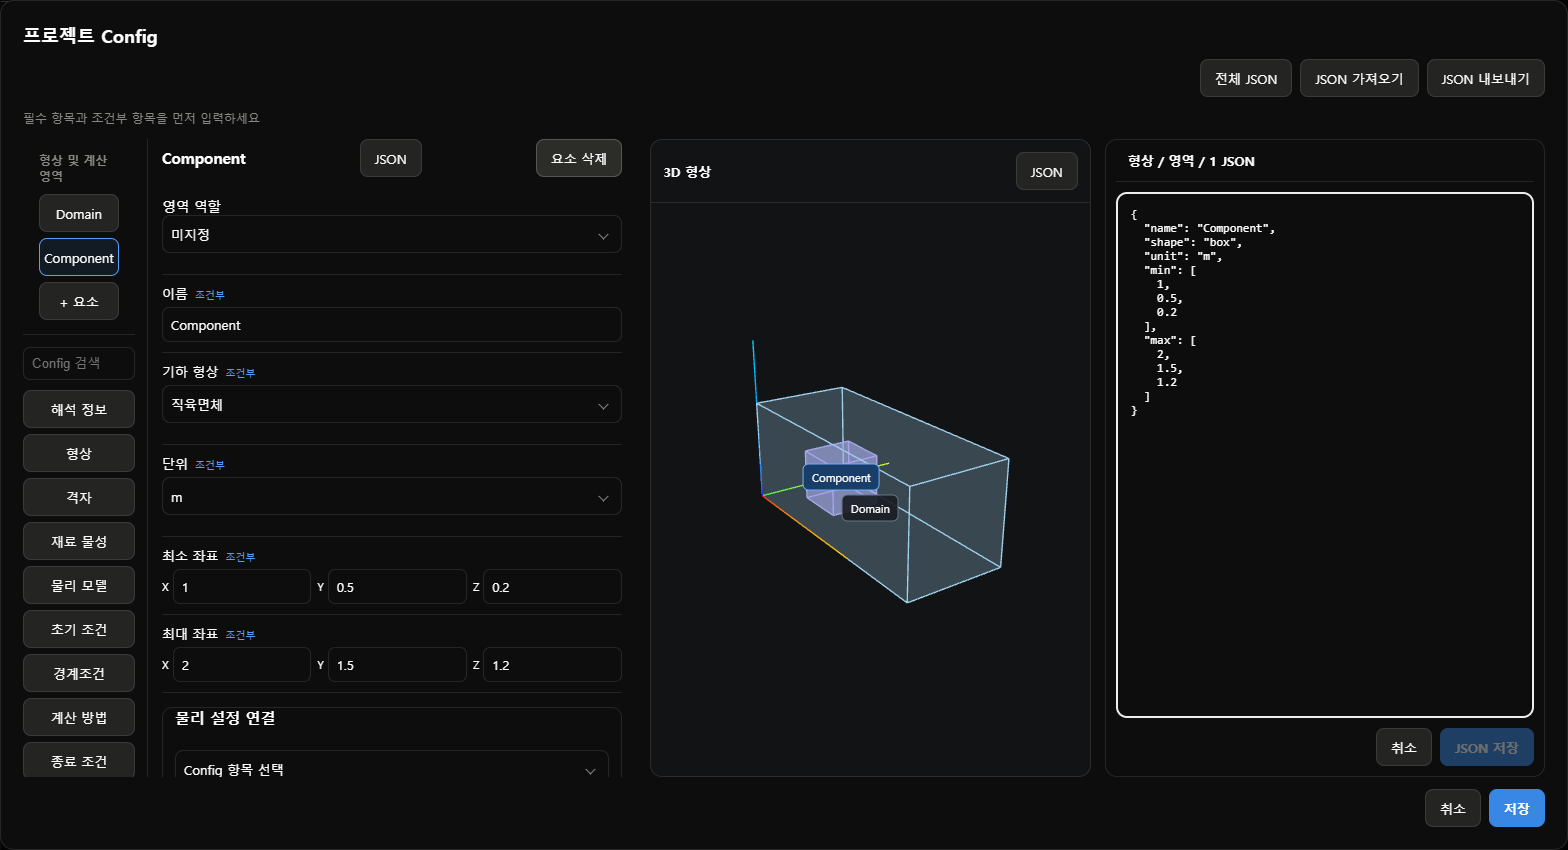
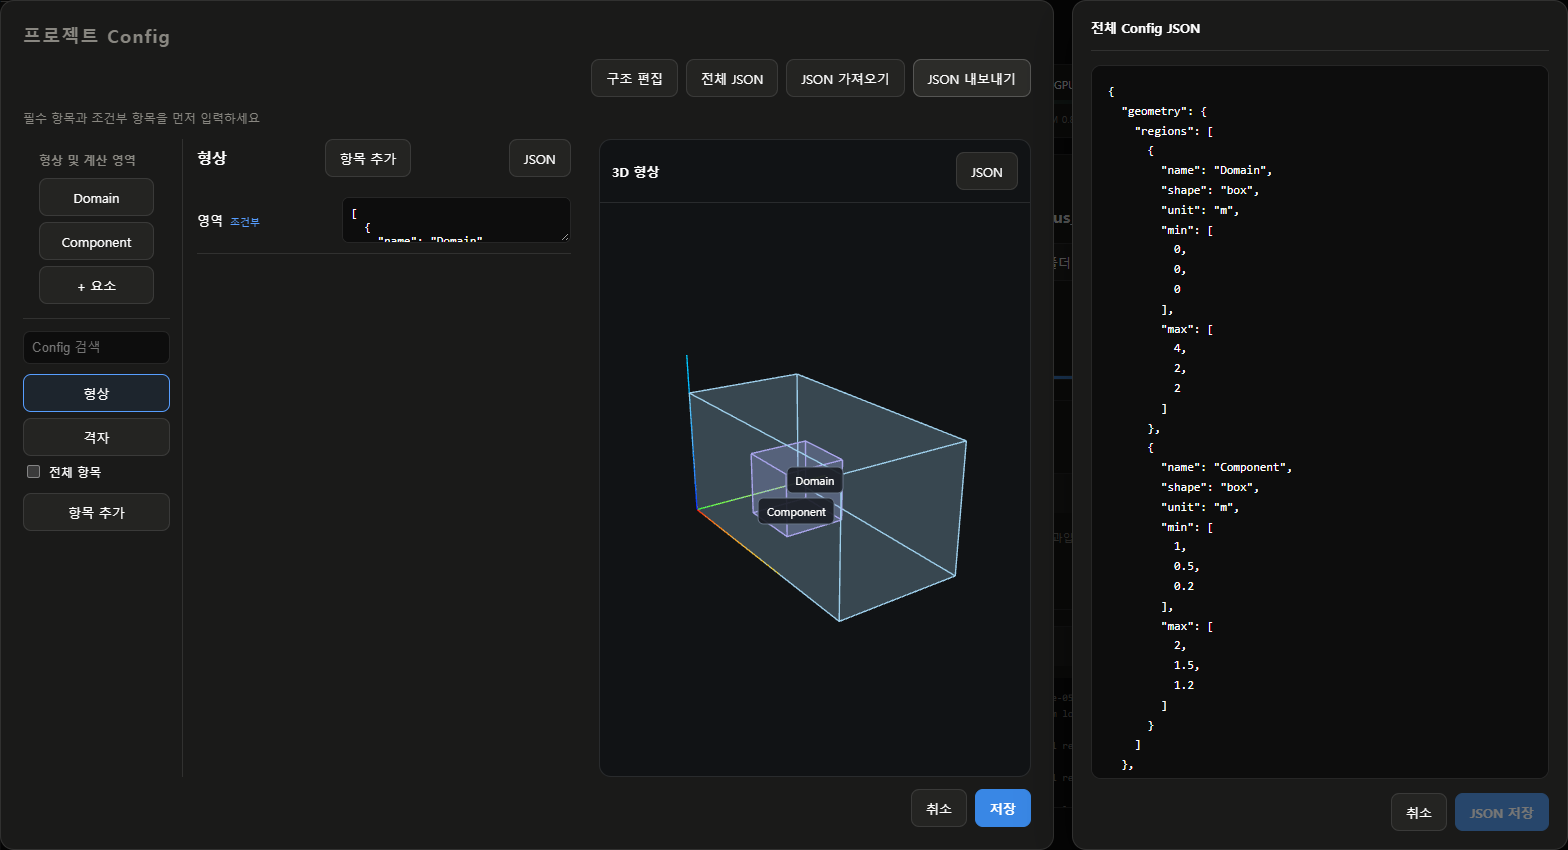
Show JSON in a separate panel with smooth editor translation

diff --git a/cfd_studio/internal/form_config_editor.js b/cfd_studio/internal/form_config_editor.js
@@ -83,8 +83,19 @@
 
 .fc-dialog{width:min(1640px,97vw);max-width:1640px}.fc-workspace{display:grid;grid-template-columns:minmax(570px,1.35fr) minmax(310px,1fr);gap:16px;flex:1;min-height:0}.fc-layout{grid-template-columns:160px minmax(0,1fr)}.fc-row{grid-template-columns:minmax(100px,135px) minmax(100px,1fr);gap:10px}.fc-body{height:100%}.fc-preview{min-height:0;min-width:0;border:1px solid var(--line);border-radius:12px;overflow:hidden;display:flex;flex-direction:column;background:#111315}.fc-preview-header{display:flex;align-items:center;justify-content:space-between;gap:8px;padding:12px;border-bottom:1px solid var(--line);font-size:13px}.fc-preview-host{position:relative;flex:1;min-height:180px;overflow:hidden}.fc-preview-host canvas{display:block;width:100%;height:100%}.fc-preview-note{margin:0;padding:10px;font-size:11px;color:var(--muted);max-height:68px;overflow:auto}.fc-element-list{border-bottom:1px solid var(--line);margin-bottom:12px;padding-bottom:8px}.fc-element-list h4{font-size:12px;margin:0 0 10px;color:var(--muted)}.fc-section>select{width:100%;padding:8px;background:var(--page);color:var(--ink);border:1px solid var(--line);border-radius:7px;margin:10px 0}.sp-tags{position:absolute;inset:0;pointer-events:none;overflow:hidden}.sp-tag{position:absolute;transform:translate(-50%,-50%);pointer-events:auto;max-width:180px;overflow:hidden;text-overflow:ellipsis;white-space:nowrap;background:#191d23e8;color:#fff;border:1px solid #677487;border-radius:6px;padding:5px 8px;font-family:inherit;font-size:11px;cursor:pointer}.sp-tag[aria-pressed=true]{border-color:#73adff;background:#193e69;z-index:2}@media(max-width:980px){.fc-workspace{grid-template-columns:minmax(430px,1fr) minmax(240px,.75fr)}.fc-layout{grid-template-columns:130px minmax(0,1fr)}.fc-row{grid-template-columns:1fr}.fc-dialog{padding:14px}}@media(max-width:740px){.fc-workspace{grid-template-columns:1fr;grid-template-rows:minmax(220px,1fr) 240px;overflow:auto}.fc-main{padding-right:4px}}
 
-.fc-dialog{width:min(1240px,96vw);max-width:1800px;transition:width .28s ease,transform .28s ease}.fc-dialog.fc-json-open{width:min(1800px,98vw)}.fc-workspace{grid-template-columns:minmax(0,1.3fr) minmax(0,1fr) minmax(0,0fr);gap:0;transition:grid-template-columns .28s ease}.fc-preview{margin-left:14px}.fc-json-open .fc-workspace{grid-template-columns:minmax(0,1.35fr) minmax(0,1fr) minmax(0,1fr)}.fc-json-pane{min-width:0;overflow:hidden;display:flex;flex-direction:column;gap:10px;opacity:0;transform:translateX(25px);transition:opacity .28s,transform .28s;margin-left:0}.fc-json-open .fc-json-pane{margin-left:14px;opacity:1;transform:translateX(0);border:1px solid var(--line);border-radius:12px;padding:0 10px 10px}.fc-json-pane .fc-json{flex:1;min-height:160px;resize:none}.fc-json-open .fc-row{grid-template-columns:1fr;gap:5px}.fc-nav{min-width:0}.fc-json-open .fc-layout{grid-template-columns:125px minmax(0,1fr)}.fc-case-controls{display:flex;gap:10px;align-items:center;flex-wrap:wrap}.fc-preset-load{display:flex;align-items:center;gap:8px;width:340px;min-width:0}.fc-preset-load>button{flex:none}.fc-preset-load>select{flex:1;width:auto!important}.fc-preset-load>div{flex:1;min-width:0}.fc-output-options{display:flex;flex-wrap:wrap;gap:10px}.fc-output-options label{display:flex;align-items:center;gap:5px}.fc-output-options input{width:auto;min-height:0}.fc-nav>input{padding:8px;border-radius:7px;border:1px solid var(--line);background:var(--page);color:var(--ink)}.fc-section legend .btn{margin-left:8px;padding:3px 7px;font-size:10px}.fc-case-controls label{display:flex;align-items:center;gap:6px;font-size:12px}.fc-case-controls input:not([type=checkbox]),.fc-case-controls select,.fc-custom input,.fc-custom textarea,.fc-custom select{padding:8px;border:1px solid var(--line);border-radius:7px;background:var(--page);color:var(--ink);font:inherit;min-width:0}.fc-custom{font-size:13px}.fc-custom label{display:grid;gap:7px;margin:16px 0}.fc-custom p{font-size:12px;color:var(--muted);line-height:1.6}.fc-custom textarea{width:100%;box-sizing:border-box}.fc-json-pane textarea{user-select:text}@media(max-width:740px){.fc-workspace,.fc-json-open .fc-workspace{display:flex;flex-direction:column;overflow:auto}.fc-body{min-height:300px}.fc-preview{min-height:240px;margin:12px 0}.fc-json-pane{display:none}.fc-json-open .fc-json-pane{display:flex;min-height:300px;margin:0}.fc-dialog{transition:none}}@media(prefers-reduced-motion:reduce){.fc-dialog,.fc-workspace,.fc-json-pane{transition:none;transform:none}}
-`;document.head.append(style);}
+
+/* The editor and JSON are separate cards. Opening JSON changes position only. */
+.fc-dialog{--json-width:clamp(460px,31vw,640px);--editor-width:min(1240px,max(780px,calc(98vw - var(--json-width) - 18px)));width:min(98vw,calc(var(--editor-width) + var(--json-width) + 18px));max-width:none;padding:0;border:0;border-radius:0;background:transparent;box-shadow:none;overflow:hidden;transition:none;color:var(--ink)}
+.fc-dialog[open]{display:block}.fc-editor-card{position:absolute;inset:0 auto 0 0;width:var(--editor-width);box-sizing:border-box;padding:22px;border:1px solid var(--line);border-radius:14px;background:var(--surface,var(--page));display:flex;flex-direction:column;gap:12px;overflow:hidden;transform:translateX(calc((min(98vw,calc(var(--editor-width) + var(--json-width) + 18px)) - var(--editor-width)) / 2));transition:transform .42s cubic-bezier(.22,1,.36,1)}
+.fc-dialog.fc-json-open{overflow:auto}.fc-json-open .fc-editor-card{transform:translateX(0)}
+.fc-workspace,.fc-json-open .fc-workspace{grid-template-columns:minmax(0,1.3fr) minmax(0,1fr);gap:14px;transition:none}.fc-preview{margin-left:0}.fc-nav{min-width:0}
+.fc-json-pane{position:absolute;left:calc(var(--editor-width) + 18px);top:0;bottom:0;width:var(--json-width);box-sizing:border-box;min-width:0;overflow:hidden;display:flex;flex-direction:column;gap:14px;padding:18px;border:1px solid var(--line);border-radius:14px;background:var(--surface,var(--page));box-shadow:0 16px 48px #0005;opacity:0;visibility:hidden;transform:translateX(28px);transition:transform .42s cubic-bezier(.22,1,.36,1),opacity .24s ease,visibility .42s}
+.fc-json-open .fc-json-pane{opacity:1;visibility:visible;transform:translateX(0)}.fc-json-pane .fc-preview-header{padding:0 0 14px}.fc-json-pane .fc-json{flex:1;min-height:160px;height:auto;resize:none;line-height:1.65;padding:16px}.fc-json-pane .fc-actions{flex-shrink:0}.fc-json-pane textarea{user-select:text}
+@media(max-width:1300px){.fc-editor-card .fc-row{grid-template-columns:1fr;gap:5px}.fc-editor-card .fc-layout{grid-template-columns:125px minmax(0,1fr)}}
+@media(max-width:1050px){.fc-dialog{--editor-width:min(900px,94vw);--json-width:480px}.fc-editor-card{padding:16px}.fc-json-pane{padding:16px}}
+@media(max-width:740px){.fc-editor-card .fc-workspace{display:flex;flex-direction:column;overflow:auto}.fc-editor-card .fc-body{min-height:300px}.fc-editor-card .fc-preview{min-height:240px}.fc-dialog{--json-width:min(480px,94vw)}}
+@media(prefers-reduced-motion:reduce){.fc-editor-card,.fc-json-pane{transition:none}}
+.fc-case-controls{display:flex;gap:10px;align-items:center;flex-wrap:wrap}.fc-preset-load{display:flex;align-items:center;gap:8px;width:340px;min-width:0}.fc-preset-load>button{flex:none}.fc-preset-load>select{flex:1;width:auto!important}.fc-preset-load>div{flex:1;min-width:0}.fc-output-options{display:flex;flex-wrap:wrap;gap:10px}.fc-output-options label{display:flex;align-items:center;gap:5px}.fc-output-options input{width:auto;min-height:0}.fc-nav>input{padding:8px;border-radius:7px;border:1px solid var(--line);background:var(--page);color:var(--ink)}.fc-section legend .btn{margin-left:8px;padding:3px 7px;font-size:10px}.fc-case-controls label{display:flex;align-items:center;gap:6px;font-size:12px}.fc-case-controls input:not([type=checkbox]),.fc-case-controls select,.fc-custom input,.fc-custom textarea,.fc-custom select{padding:8px;border:1px solid var(--line);border-radius:7px;background:var(--page);color:var(--ink);font:inherit;min-width:0}.fc-custom{font-size:13px}.fc-custom label{display:grid;gap:7px;margin:16px 0}.fc-custom p{font-size:12px;color:var(--muted);line-height:1.6}.fc-custom textarea{width:100%;box-sizing:border-box}.fc-json-pane textarea{user-select:text}`;document.head.append(style);}
     const dialog=el('dialog',null,'fc-dialog'+(schemaOnly?' fc-schema-only':'')),header=el('div',null,'fc-header');header.append(el('h2',title));
     const toolbar=el('div',null,'fc-toolbar'),body=el('div',null,'fc-body'),error=el('p',null,'fc-error'),actions=el('div',null,'fc-actions');error.setAttribute('role','alert');
     let saving=false,jsonPath=null,jsonDirty=false,jsonBase='',jsonArea,adding=null,elementId=null,elementDraft=null,elementPath=null,cleanPreview=null,previewTimer=null,previewVersion=0,closed=false,cameraState=null,lastScene='';
@@ -107,12 +118,12 @@
       else{const next=toConfig(draft);if(jsonPath)writePath(next,jsonPath,parsed);else {fromConfig(parsed);for(const key of Object.keys(next))delete next[key];Object.assign(next,parsed);}validateValueEdits(toConfig(draft),next);draft=fromConfig(next,draft);}
       jsonDirty=false;body.inert=false;jsonBase=jsonArea.value;jsonSave.disabled=true;render();loadJSON();schedulePreview();
     }));jsonSave.classList.add('pri');jsonSave.hidden=readonly;jsonSave.disabled=true;
-    const dismissJSON=()=>{jsonButton.focus({preventScroll:true});jsonDirty=false;body.inert=false;dialog.classList.remove('fc-json-open');jsonPane.inert=true;jsonPane.setAttribute('aria-hidden','true');};
-    jsonActions.append(button(readonly?'닫기':'취소',dismissJSON),jsonSave);jsonHeader.append(jsonTitle);jsonPane.append(jsonHeader,jsonArea,jsonActions);jsonPane.inert=true;jsonPane.setAttribute('aria-hidden','true');workspace.append(jsonPane);
+    const dismissJSON=()=>{jsonButton.focus({preventScroll:true});jsonDirty=false;body.inert=false;dialog.classList.remove('fc-json-open');dialog.scrollLeft=0;jsonPane.inert=true;jsonPane.setAttribute('aria-hidden','true');};
+    jsonActions.append(button(readonly?'닫기':'취소',dismissJSON),jsonSave);jsonHeader.append(jsonTitle);jsonPane.append(jsonHeader,jsonArea,jsonActions);jsonPane.inert=true;jsonPane.setAttribute('aria-hidden','true');dialog.append(jsonPane);
     function loadJSON(){const value=schemaOnly?(jsonPath?draft.fields.find(f=>f.key===jsonPath[0]):draft):(jsonPath?sp.at(toConfig(draft),jsonPath):toConfig(draft));jsonBase=JSON.stringify(value,null,2);jsonArea.value=jsonBase;jsonDirty=false;jsonSave.disabled=true;}
     function openJSON(path){guarded(()=>{commitJSON();jsonPath=schemaOnly&&path?[path[0]]:path;jsonTitle.textContent=(jsonPath?jsonPath.map(key=>fieldLabel({key})).join(' / '):'전체 Config')+' JSON';loadJSON();dialog.classList.add('fc-json-open');jsonPane.inert=false;jsonPane.setAttribute('aria-hidden','false');jsonArea.focus({preventScroll:true});});}
 
-    dialog.append(header,toolbar,hint,workspace,error,actions);hint.title='선택 항목의 기존값은 유지됩니다 · 전체 항목에서 확인';
+    const editorCard=el('div',null,'fc-editor-card');editorCard.append(header,toolbar,hint,workspace,error,actions);dialog.prepend(editorCard);hint.title='선택 항목의 기존값은 유지됩니다 · 전체 항목에서 확인';
     if(onValidate){const report=el('section',null,'fc-validation');report.setAttribute('aria-live','polite');report.textContent='입력 검사로 누락 항목을 확인할 수 있습니다';workspace.after(report);const check=button('입력 검사',async()=>{check.disabled=true;try{commitJSON();const result=await onValidate(toConfig(draft));report.replaceChildren(el('strong',result.missing_count?'필수 입력 '+result.missing_count+'개 확인 필요':'정의된 필수 입력 작성 완료'));const list=el('ul');for(const issue of result.issues){const item=el('li'),link=button(issue.path.map(key=>fieldLabel({key})).join(' / '),()=>{selected=issue.path[0];showOptional=true;mode='fields';render();const target=[...body.querySelectorAll('[data-field-path]')].find(n=>n.dataset.fieldPath===issue.path.join('.'));target?.scrollIntoView({block:'center'});target?.querySelector('input,select,textarea')?.focus();});link.title=issue.path.join('.');item.append(link,' · ',issue.message);list.append(item);}for(const note of result.model_review||[])list.append(el('li',note));report.append(list);}catch(e){report.textContent=e.message;}finally{check.disabled=false;}});actions.append(check);}
     const sp=spatialAPI();
     function writePath(obj,path,value){const parent=sp.at(obj,path.slice(0,-1));if(!parent)throw Error('선택한 요소를 찾을 수 없습니다');parent[path.at(-1)]=value;}

diff --git a/tests/browser_case_inspector.js b/tests/browser_case_inspector.js
@@ -34,7 +34,7 @@ async (page) => {
  await page.locator('#ewRows .ew-run-card').click();await page.locator('#ewSettings').click();await d.waitFor();await d.locator('.fc-preview canvas').waitFor();
  await d.getByRole('button',{name:'전체 JSON',exact:true}).click();const saved=JSON.parse(await d.getByRole('textbox',{name:'선택 항목 JSON',exact:true}).inputValue());
  if(saved.tank.width_mm!==setup.config.tank.width_mm+10||saved._studio.termination.time_s!==20)throw Error('Saved values mismatch');
- await d.locator('.fc-actions').last().getByRole('button',{name:'취소',exact:true}).click();
+ await d.locator('.fc-editor-card > .fc-actions').getByRole('button',{name:'취소',exact:true}).click();
  await page.evaluate(x=>{window.snapshotInput=structuredClone(x.config);CFDSettings.open({config:x.config,readonly:true,managed:true,form:x.form,name:'Stored Case',onClone:c=>window.clonedInput=c});},setup);
  await d.waitFor();await d.locator('.fc-element-list').getByRole('button',{name:'tank',exact:true}).click();
  const editable=await d.locator('.fc-main input:not([readonly]):not([disabled]), .fc-main textarea:not([readonly]):not([disabled])').count();if(editable)throw Error('Snapshot editable');

diff --git a/tests/browser_config_guided.js b/tests/browser_config_guided.js
@@ -44,6 +44,6 @@ async page=>{
  await settings.locator('.fc-main .fc-titlebar').getByRole('button',{name:'JSON',exact:true}).click();
  check(await settings.locator('.fc-json-pane textarea').getAttribute('readonly')!==null,'Case geometry JSON preserves read-only snapshot');
  await settings.screenshot({path:'output/playwright/config-warehouse-geometry.png'});
- await settings.locator('.fc-actions').last().getByRole('button',{name:'닫기',exact:true}).click();
+ await settings.locator('.fc-editor-card > .fc-actions').getByRole('button',{name:'닫기',exact:true}).click();
  check(errors.length===0,'no browser runtime errors: '+errors.join('; '));return {count:checks.length,checks};
 }

diff --git a/docs/CFD-STUDIO-USER-GUIDE.md b/docs/CFD-STUDIO-USER-GUIDE.md
@@ -167,7 +167,7 @@
 - 왼쪽: Config 항목과 요소 속성 · 가운데: 3D 형상과 네임태그
 - 항목 제목 옆 **JSON**: 해당 항목의 JSON을 맨 오른쪽에 표시
 - **전체 JSON**: 전체 Config 표시 · Template 양식에서는 필드 정의 표시
-- JSON을 열면 기존 입력창과 3D 영역이 왼쪽으로 이동하며 편집 영역 확장
+- JSON을 열면 기존 입력창과 3D 영역의 폭을 유지하며 왼쪽으로 이동 · 오른쪽에 독립된 큰 JSON 블록 표시
 - **JSON 저장**: 문법·자료형 확인 후 현재 초안에 반영 · 3D 형상 자동 갱신
 - JSON 수정 중에는 왼쪽 입력을 잠금 · **취소**하면 JSON 수정분 폐기
 - Case는 **실행 저장**으로 최종 저장 · Template·프로젝트는 Config의 **저장** 후 상위 창에서도 **저장**

diff --git a/docs/CFD-STUDIO-MANUAL.md b/docs/CFD-STUDIO-MANUAL.md
@@ -446,7 +446,7 @@
 ## Config 편집 및 정의 파일
 
 - Template·프로젝트·Case는 공통 Config 편집기 사용
-- 입력 항목·3D 형상·항목별 JSON을 좌측부터 순서대로 배치
+- 입력 항목·3D 형상은 기존 블록에 유지 · 항목별 JSON은 오른쪽 독립 블록에 표시 · 열기·닫기 시 입력창과 3D 영역의 폭 유지
 - JSON 저장은 편집 초안 반영 · 최종 저장은 Case의 실행 저장 또는 상위 Template·프로젝트 저장
 - 실행한 Case의 Config·형상·JSON은 변경 불가 · 새 Case 사본에서 편집
 - 정의 파일은 소유 Template·프로젝트·Case 내부의 `Assets/Definitions/<Config SHA-256>`에 저장
